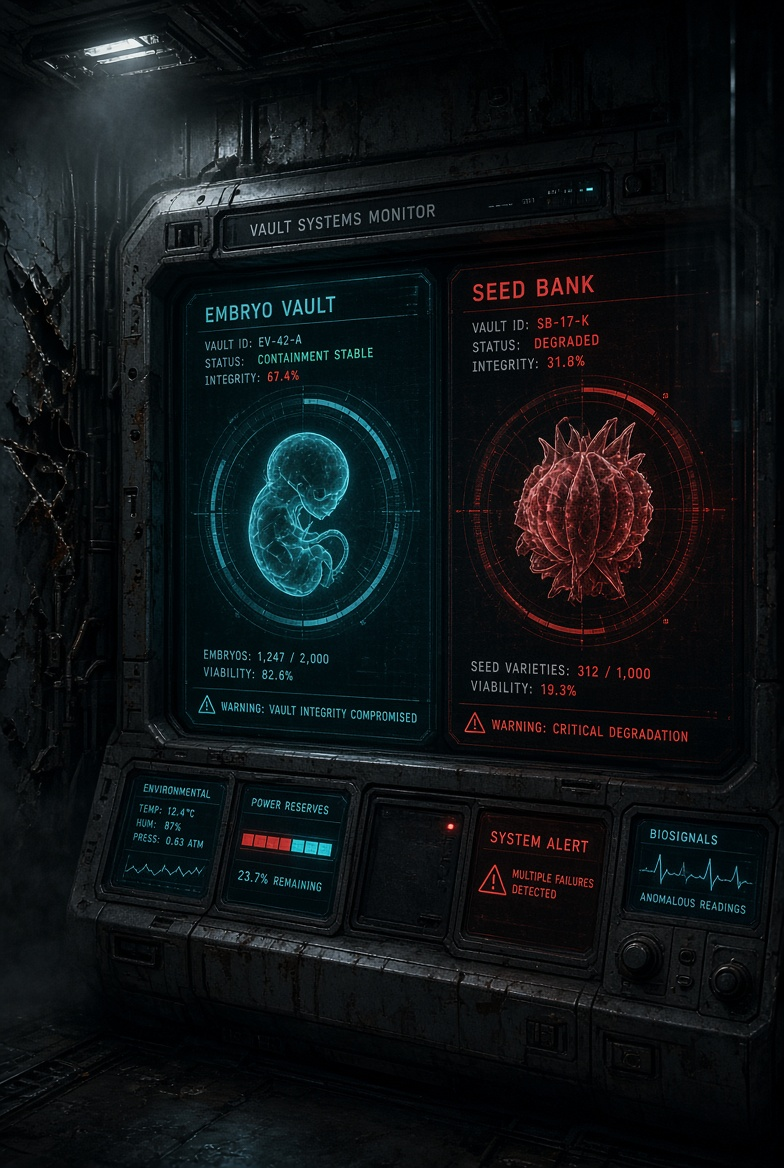
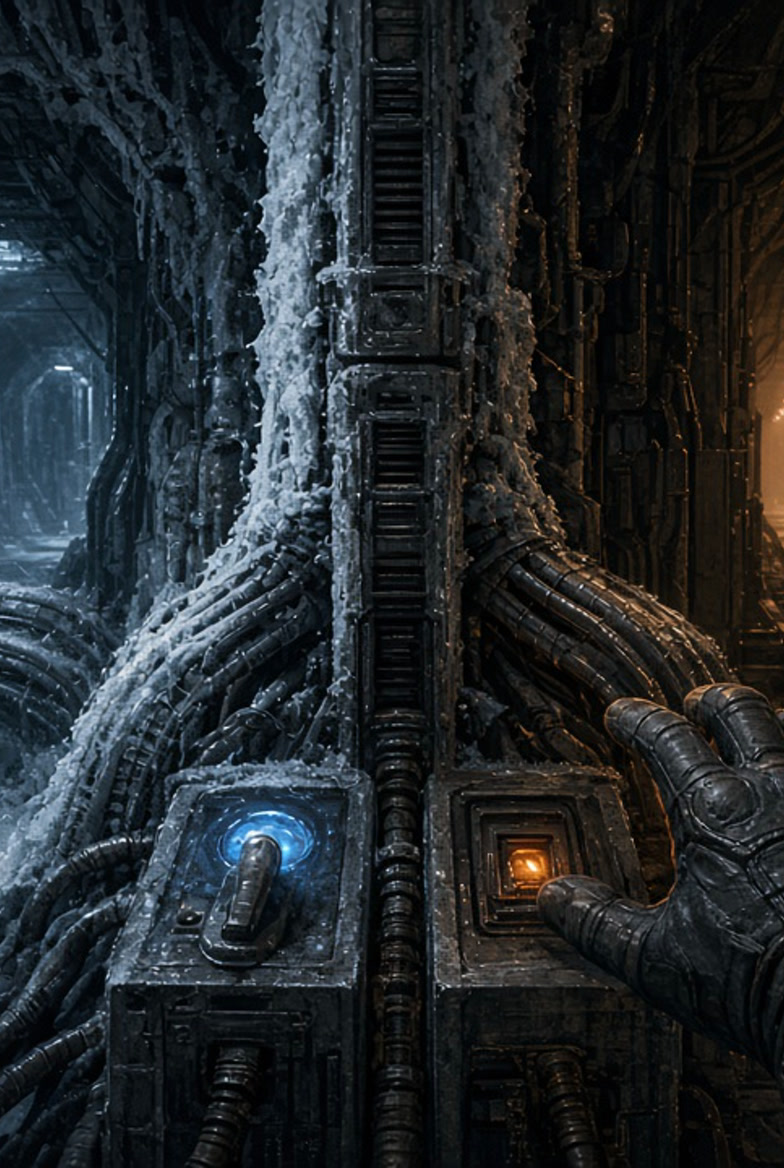
SUN-BATCH01-LAST2-WIRE-01 — arc_future_3 + vault_sacrifice
Owner APPROVED + Canon PASS. Add unique JPGs and remap sceneImages only. Leave cascade_records.jpg. IMAGES_TREE 27e741c4f68b835a3ce7a8ac55224d5499c17b47. No 0.36 / no Netlify.

diff --git a/src/state.js b/src/state.js
@@ -129,7 +129,7 @@ const sceneImages = {
   arc_fork:         "images/observation_reckon.jpg",
   arc_future_1:     "images/power_stress_2.jpg",
   arc_future_2:     "images/vault_interior_alt.jpg",
-  arc_future_3:     "images/cascade_records.jpg",
+  arc_future_3:     "images/arc_future_3.jpg",
   arc_future_4:     "images/abandoned_section.jpg",
   arc_living_1:     "images/hydroponics.jpg",
   arc_living_2:     "images/sela_ritual.jpg",

diff --git a/docs/SUN_BATCH01_LAST2_WIRE_01.md b/docs/SUN_BATCH01_LAST2_WIRE_01.md
@@ -1,0 +1,14 @@
+# SUN-BATCH01-LAST2-WIRE-01
+
+Owner APPROVED + Canon PASS. Wired:
+
+| event | path | hex16 |
+|---|---|---|
+| arc_future_3 | images/arc_future_3.jpg | 2e64d9055d2e8d45 |
+| vault_sacrifice | images/vault_sacrifice.jpg | 5c423ca90e2ca6b3 |
+
+**DID NOT** touch `images/cascade_records.jpg`.
+tip base / parent: `118a038fa35dc6fccf44c32a3ac7afcbc741d2ce`
+IMAGES_TREE: `27e741c4f68b835a3ce7a8ac55224d5499c17b47`
+
+No 0.36 mint. NOT_CERTIFIED remint separate.
